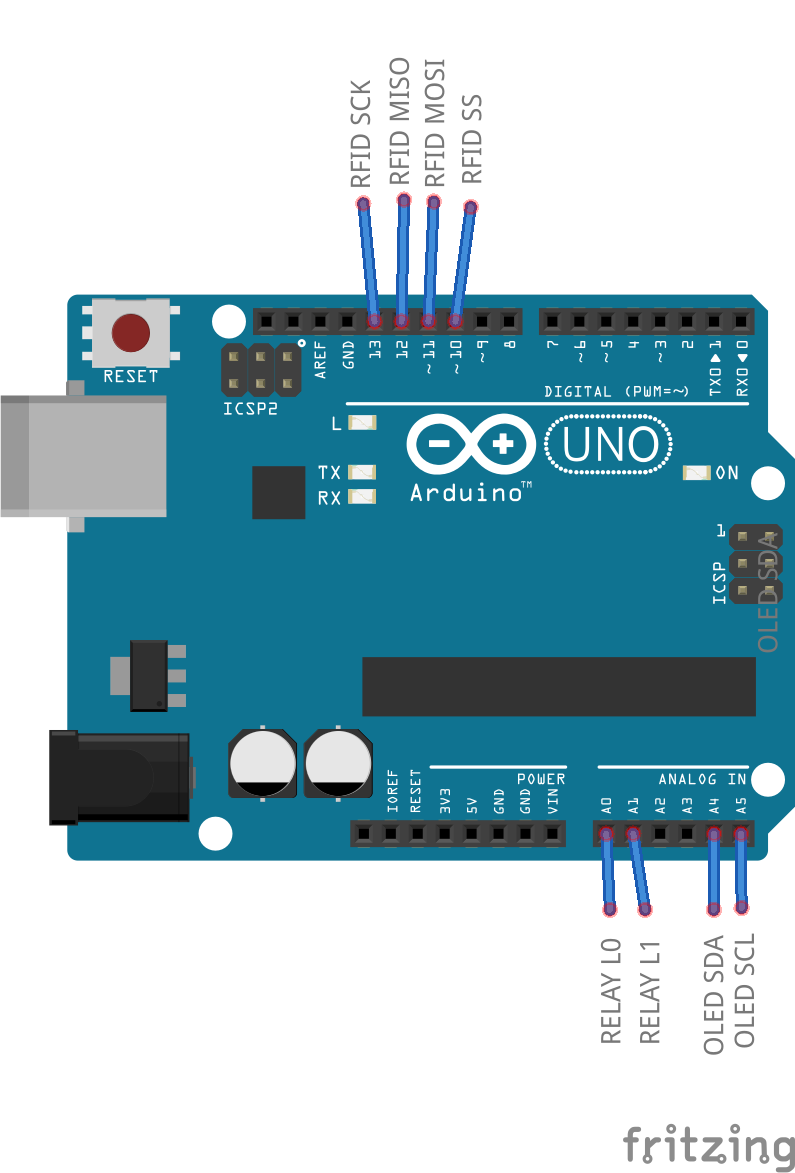
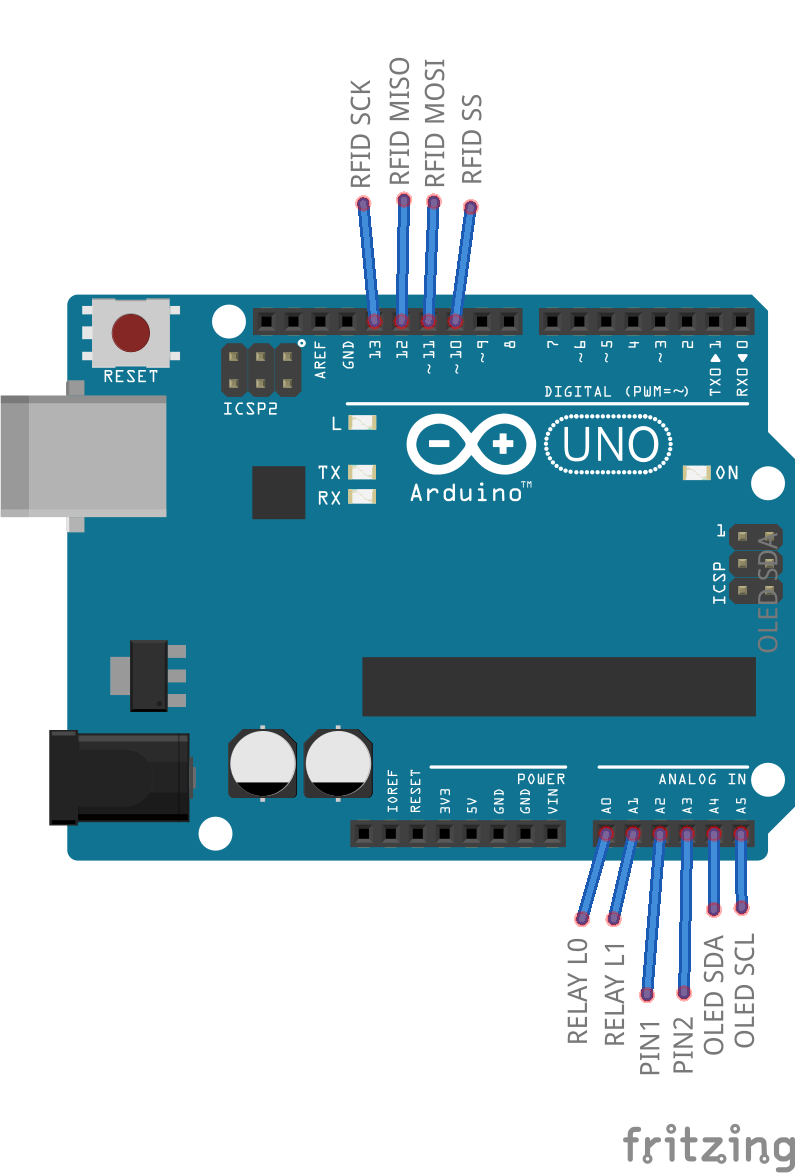
Diagram changed

Changed region(s): [[0.6943, 0.7059, 0.8755, 0.9207]]

diff --git a/README.md b/README.md
@@ -11,3 +11,17 @@ Relay pins: 10, 11, 12, 13
 * RC522 reader
 * I2C 128x64 display
 * Arduino UNO board
+### Pinout used
+|----|----|
+|PIN	| Description	|
+|-------|---------------|
+|A0	| Relays L0	|
+|A1     | Relays L1	|
+|A2     | Pin1 RFID card add |
+|A3     | Pin2 Shutdown force|
+|A4     | OLED SCL	|
+|A5     | OLED SDA	|
+|10	| RFID SS	|
+|11	| RFID MSIO	|
+|12	| RFID MISO	|
+|13	| RFID CLK	|
